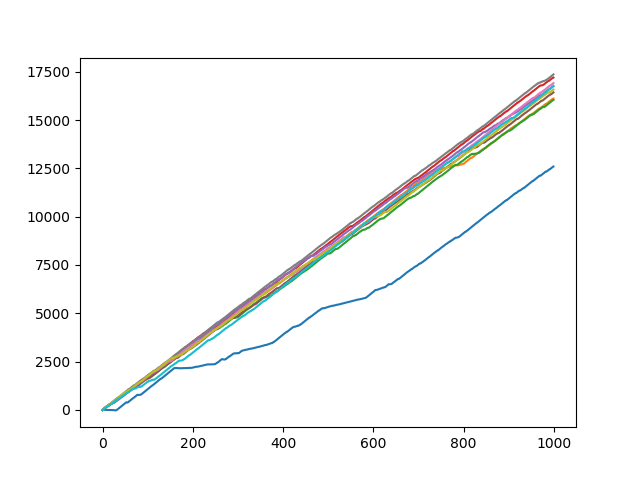
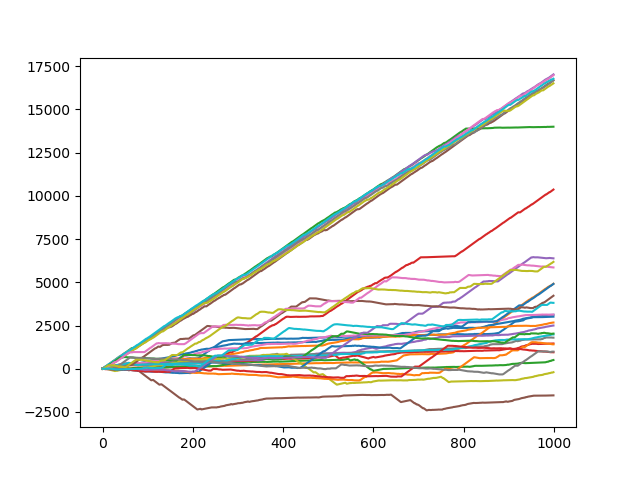
Auto stash before merge of "master" and "origin/master"

diff --git a/section6.py b/section6.py
@@ -324,7 +324,7 @@ class QGame:
     def get_scores(self):
         return self.scores
 
-    def greedy_game(self,n,m):
+    def greedy_game(self,n,m, buffered):
         trajectoriesXUR= []
         trajectoriesXUX= []
         #NUMBER OF EPISODES
@@ -342,17 +342,30 @@ class QGame:
                 addedTrajectoryXUX = self.agent.get_state2_state1_action()
                 addedTrajectoryXUR = self.agent.get_reward_state_action()
 
-                #print(addedTrajectoryXUR)
-                #print(addedTrajectoryXUX)
+                trajectoriesXUX.append(addedTrajectoryXUX)
+                trajectoriesXUR.append(addedTrajectoryXUR)
 
-                currentTrajectoriesXUX.append(addedTrajectoryXUX)
-                currentTrajectoriesXUR.append(addedTrajectoryXUR)
+                #currentTrajectoriesXUX.append(addedTrajectoryXUX)
+                #currentTrajectoriesXUR.append(addedTrajectoryXUR)
 
-                self.qgrid.update_grid_single(addedTrajectoryXUR,addedTrajectoryXUX)
+                # update the Q function 10 transitions at a time
+                if buffered:
+                    length = len(trajectoriesXUX)
+                    # if only 10 transitions or less, just take them all
+                    if length < 11:
+                        for i in range(length):
+                            self.qgrid.update_grid_single(trajectoriesXUR[i],trajectoriesXUX[i])
+                    else:
+                        for w in range(10):
+                            index = random.randrange(0, length)
+                            self.qgrid.update_grid_single(trajectoriesXUR[i],trajectoriesXUX[i])
+
+                else:
+                    self.qgrid.update_grid_single(addedTrajectoryXUR,addedTrajectoryXUX)
             if i < 10:
                 plt.plot(scores)
-            trajectoriesXUX.append(currentTrajectoriesXUX)
-            trajectoriesXUR.append(currentTrajectoriesXUR)
+            #trajectoriesXUX.append(currentTrajectoriesXUX)
+            #trajectoriesXUR.append(currentTrajectoriesXUR)
 
         plt.savefig('scores.png')
 
@@ -409,12 +422,12 @@ if __name__ == '__main__':
     ##EXPERIENCE 1 :
 
     qgame = QGame(0,3,array,steps,alpha1,beta, epsilon, gamma)
-    qgame.greedy_game(100,1000)
+    qgame.greedy_game(100,1000, False)
 
-    ##EXPERIENCE 2 : 
+    #EXPERIENCE 2 :
     qgame = QGame(0,3,array,steps,alpha2,beta, epsilon, gamma)
-    qgame.greedy_game(100,1000)
+    qgame.greedy_game(100,1000, False)
 
-    ##EXPERIENCE 3 :
-    qgame = QGame(0,3,array,steps,alpha1,beta, epsilon, gamma)
-    qgame.greedy_game(100,1000)
+    # EXPERIENCE 3 :
+    qgame = QGame(0,3,array,steps,alpha2,beta, epsilon, gamma)
+    qgame.greedy_game(100,1000, True)

diff --git a/section4.py b/section4.py
@@ -18,7 +18,7 @@ if __name__ == '__main__':
 	        [-20, -17, -4, -3, 9]])
 
 	size_x,size_y=array.shape
-	steps = 500
+	steps = 1000
 	discount =  0.99
 	beta = 0.5
 	if args.stochastic ==False:
@@ -31,7 +31,7 @@ if __name__ == '__main__':
 
 	plt.figure(figsize=(20,10))
 
-
+	JN = np.ones((size_x, size_y))
 	legend = []
 	for i in range(size_x):
 		for j in range(size_y):
@@ -41,13 +41,15 @@ if __name__ == '__main__':
 				vectorScores[i][:] = vectorScores[i][:] + game.get_scores()
 
 			vectorScores[i][:] = vectorScores[i][:]/5
-			plt.plot(vectorScores[i])
 			print(' The expected return for the row '+ str(i+1)+' and column '+str(j+1)+' : ' + str(game.scores[steps - 1]))
-			legend.append("row "+str(i+1) + " column " + str(j+1))
+			JN[i][j] =  game.scores[steps - 1]
 			initialJ = initialJ + 1
 
 		initialJ = 0
 		initialI = initialI + 1
+
+	print("saving the JN")
+	np.save('J_N_for_every_state', JN)
 
 	"""
 	nb_run = 10

diff --git a/section5.py b/section5.py
@@ -16,7 +16,7 @@ array = np.array([
 
 steps_per_game = 1000
 discount =  0.99
-beta = 0.5
+beta = 0
 
 size_x,size_y=array.shape
 trajectory = []
@@ -85,7 +85,7 @@ for x in X:
             pDiff += (squared_error(MDP_P, stats_P))
             countP += 1
 
-"""
+
 
 print("plot of the precision of the MDP for R \n ")
 
@@ -108,7 +108,6 @@ plt.xlabel("state-action-state triple")
 plt.ylabel("estimated proba")
 plt.show()
 
-"""
 
 print("for a game of length " + str(steps_per_game))
 print(" average squared error on r = " + str(rDiff/countR))
